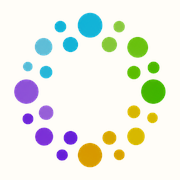
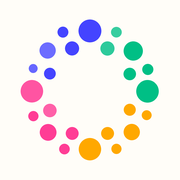
ヘッダー: ロゴにマーク (点の輪) を付け、サイトアイコンの配色を変える
- ヘッダーのサービス名の左に、サイトアイコンと同じ点の輪を置く (4言語共通)。
  文字は従来の書体のまま。340px 未満の画面ではサービス名を優先してマークを出さない
- 点の輪の配色を、サイトで使っている4色 (青・ピンク・緑・金) を鮮やかにしたものに変える。
  点の並びと大きさは従来のアイコンと同じ
- favicon.ico / apple-icon.png を同じ配色で作り直す
- 構造化データが参照するアイコンは /icon-v2.png に切り替える (/icon.png は長期保存
  されるため、同じ名前では差し替えない)。旧 /icon.png は決済まわりが参照しているので残す

diff --git a/src/components/top/TopHeader.tsx b/src/components/top/TopHeader.tsx
@@ -13,6 +13,7 @@ import { useNavigationCopy, useNavigationText } from "@/i18n/ui/use-navigation-c
 
 import { DeferredLoginModal as LoginModal, DeferredPaywallOverlay as PaywallOverlay } from "@/components/DeferredOverlays";
 import { AccessibilityStyleDialog, AccessibilityStyleIcon } from "@/components/AccessibilityStyleDialog";
+import { BrandMark } from "@/components/BrandMark";
 import { TakoLockPopover } from "@/components/TakoLockPopover";
 import { preloadPaywall } from "@/lib/paywall-loader";
 import { accessPaywallVersionForLocale } from "@/lib/access-products";
@@ -245,19 +246,21 @@ export default function TopHeader({
           56px は詰まりすぎたので、その間を取る)。
           PC 幅はメニューの文字が並ぶため従来の 72px のまま。 */}
       <div className="flex w-full items-center gap-4 px-4 py-3 sm:px-8 lg:py-4">
-        {/* ロゴ (左) */}
+        {/* ロゴ (左): マーク (点の輪) + サービス名。 */}
         <Link
           href={content.homeHref}
           prefetch={navigationPrefetch}
-          // 右のマークが3つ並ぶため、320px 幅の英語ロゴなど収まらないときは
-          // 横にはみ出させず末尾を省略する (日本語・韓国語は 320px でも収まる)。
-          // スマホ幅の pb-0.5: 文字の見えている部分 (字面) は行の箱の中で約1px 下に寄るため、
-          // 右のマークと縦の中心がそろうよう 1px 持ち上げる。PC 幅は隣のメニューの文字と
-          // 同じ寄り方でそろっているので動かさない。
-          className="min-w-0 truncate pb-0.5 text-[18px] font-bold tracking-[0.01em] lg:pb-0 xl:text-[21px]"
+          className="flex min-w-0 items-center gap-1 text-[18px] font-bold tracking-[0.01em] xl:gap-1.5 xl:text-[21px]"
           style={{ color: NAVY }}
         >
-          {content.siteName}
+          {/* 340px 未満の画面では、サービス名が欠けないようマークを出さない。 */}
+          <BrandMark className="shrink-0 max-[339px]:hidden xl:h-[30px] xl:w-[30px]" />
+          {/* 右のマークが並ぶため、320px 幅の英語ロゴなど収まらないときは
+              横にはみ出させず末尾を省略する。
+              スマホ幅の pb-0.5: 文字の見えている部分 (字面) は行の箱の中で約1px 下に寄るため、
+              左右のマークと縦の中心がそろうよう 1px 持ち上げる。PC 幅は隣のメニューの文字と
+              同じ寄り方でそろっているので動かさない。 */}
+          <span className="min-w-0 truncate pb-0.5 lg:pb-0">{content.siteName}</span>
         </Link>
 
         {/* PC: メニュー + ログイン + 言語切替 (右寄せ)。lg は gap 詰めめ、xl で広げる */}

diff --git a/src/components/BrandMark.tsx b/src/components/BrandMark.tsx
@@ -1,0 +1,52 @@
+// サービスのマーク (点の輪)。サイトアイコン (favicon / apple-icon / icon-v2.png) と同じ絵。
+// 配色はサイトで使っている4色 (青・ピンク・緑・金) を鮮やかにしたもの (2026-11-25 決定)。
+// 色を変えるときは、サイトアイコンの画像も同じ色で作り直す。
+// 各行は [中心x, 中心y, 半径, 色] (512×512 の座標)。
+const DOTS: ReadonlyArray<readonly [number, number, number, string]> = [
+  [255.8, 60.6, 37.6, "#4444FF"],
+  [166.5, 64.6, 17.9, "#4444FF"],
+  [343.2, 64.8, 17.5, "#37CD9F"],
+  [196.7, 118.6, 23.1, "#4444FF"],
+  [313.7, 118.7, 23.2, "#2DCA9B"],
+  [399.1, 127.0, 31.6, "#00BF85"],
+  [115.7, 125.5, 26.7, "#6C6CFF"],
+  [447.1, 187.9, 18.2, "#00BF85"],
+  [68.1, 184.9, 14.6, "#6666FF"],
+  [123.3, 201.7, 19.2, "#4444FF"],
+  [387.6, 203.0, 20.5, "#00BF85"],
+  [63.9, 260.3, 37.0, "#FF54A2"],
+  [446.2, 260.3, 37.1, "#00BF85"],
+  [123.4, 323.7, 22.2, "#FF60A8"],
+  [387.6, 321.2, 19.6, "#FFA800"],
+  [443.6, 339.4, 16.1, "#FFA800"],
+  [68.6, 342.4, 16.8, "#FF3D95"],
+  [117.3, 396.0, 27.5, "#FF3D95"],
+  [394.1, 395.1, 26.7, "#FFA800"],
+  [196.9, 399.6, 21.1, "#FF3D95"],
+  [314.0, 399.7, 21.2, "#FFA800"],
+  [255.6, 451.6, 36.8, "#FFA800"],
+  [171.6, 451.4, 17.4, "#FF3D95"],
+  [343.5, 450.7, 16.6, "#FFA800"],
+];
+
+export function BrandMark({
+  size = 26,
+  className,
+}: {
+  size?: number;
+  className?: string;
+}) {
+  return (
+    <svg
+      width={size}
+      height={size}
+      viewBox="0 0 512 512"
+      className={className}
+      aria-hidden="true"
+    >
+      {DOTS.map(([cx, cy, r, fill]) => (
+        <circle key={`${cx}-${cy}`} cx={cx} cy={cy} r={r} fill={fill} />
+      ))}
+    </svg>
+  );
+}

diff --git a/next.config.ts b/next.config.ts
@@ -73,8 +73,10 @@ const nextConfig: NextConfig = {
     return [
       // ブラウザがページ遷移のたびにサイトアイコンを再検証しないよう、長期保存する。
       // favicon / apple-icon は Next.js が更新ごとのクエリ付きURLを HTML に出力する。
-      // /icon.png を差し替える場合は、ファイル名と参照先も同時に更新すること。
-      ...["/favicon.ico", "/apple-icon.png", "/icon.png"].map((source) => ({
+      // /icon-v2.png を差し替える場合は、ファイル名と参照先も同時に更新すること
+      // (2026-11-25 に配色を変えたため /icon.png → /icon-v2.png へ切り替えた。
+      //  旧 /icon.png は決済まわりが参照しているので残している)。
+      ...["/favicon.ico", "/apple-icon.png", "/icon.png", "/icon-v2.png"].map((source) => ({
         source,
         headers: immutableAssetHeaders,
       })),

diff --git a/src/app/id/page.tsx b/src/app/id/page.tsx
@@ -61,7 +61,7 @@ const jsonLd = {
       name: "Tim Alice Personalities",
       url: ID_URL,
       brand: { "@id": `${ID_URL}#brand` },
-      logo: { "@type": "ImageObject", url: `${SITE_URL}/icon.png` },
+      logo: { "@type": "ImageObject", url: `${SITE_URL}/icon-v2.png` },
     },
   ],
 };

diff --git a/src/app/en/page.tsx b/src/app/en/page.tsx
@@ -71,7 +71,7 @@ const jsonLd = {
       name: "Alice Personalities Operations Team",
       url: SITE_URL,
       brand: { "@id": BRAND_ID },
-      logo: `${SITE_URL}/icon.png`,
+      logo: `${SITE_URL}/icon-v2.png`,
     },
   ],
 };

diff --git a/src/app/page.tsx b/src/app/page.tsx
@@ -73,7 +73,7 @@ const jsonLd = {
       brand: { "@id": `${BASE_URL}/#brand` },
       logo: {
         "@type": "ImageObject",
-        url: `${BASE_URL}/icon.png`,
+        url: `${BASE_URL}/icon-v2.png`,
       },
     },
   ],

diff --git a/src/app/ko/page.tsx b/src/app/ko/page.tsx
@@ -128,7 +128,7 @@ const jsonLd = {
       brand: { "@id": `${KO_URL}#brand` },
       logo: {
         "@type": "ImageObject",
-        url: `${BASE_URL}/icon.png`,
+        url: `${BASE_URL}/icon-v2.png`,
       },
     },
   ],
